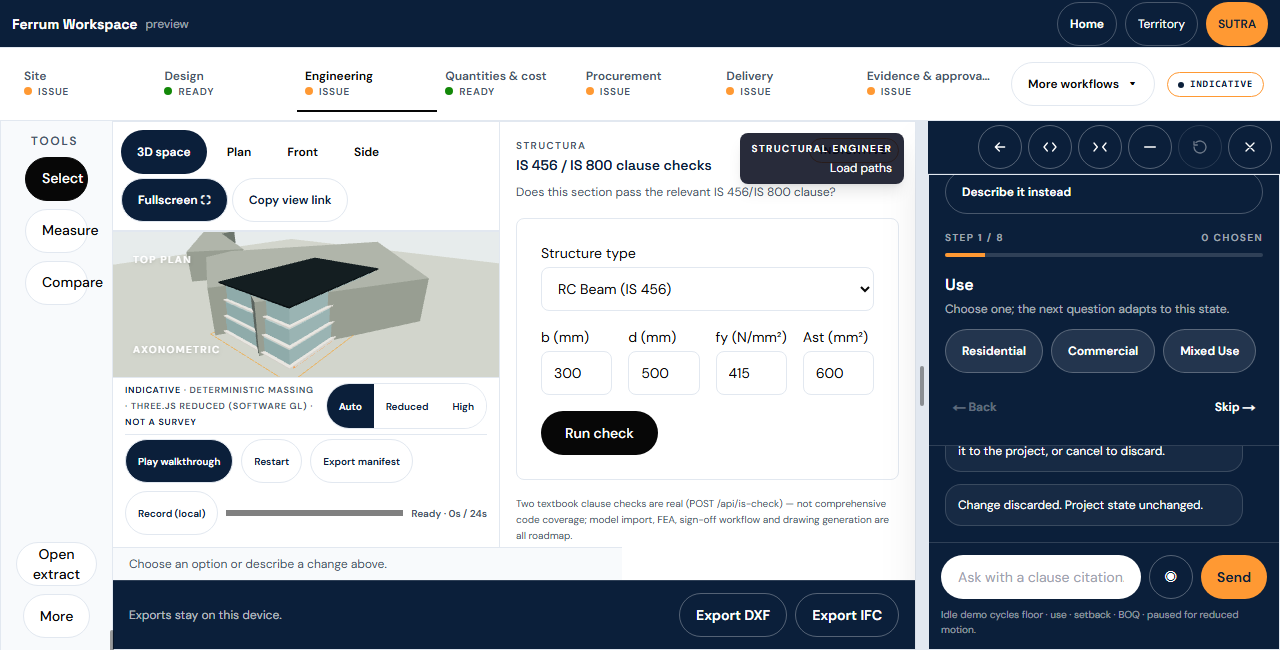
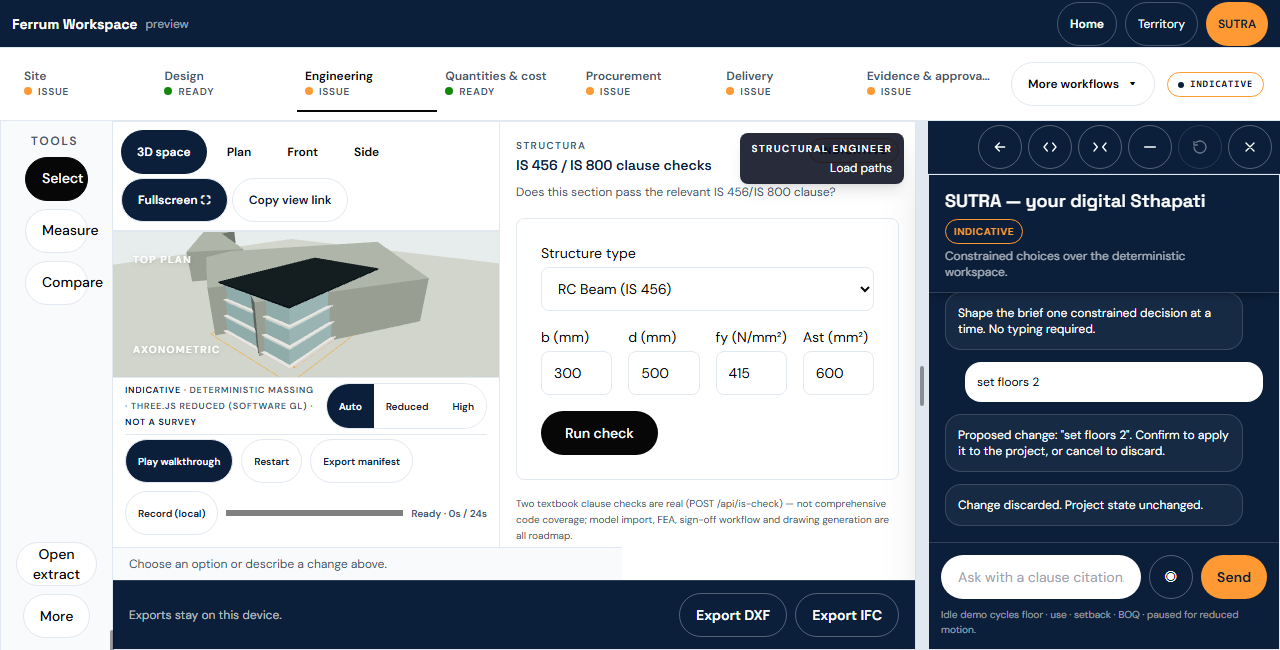
feat: SUTRA composer/header as sticky allotments, zero-scroll acceptance [AI: MASON]
Per conductor + operator standing rule (layout allotment for overlays/tabs
shall never affect existing features): the composer is now a dedicated,
always-visible allotment (position: sticky bottom-0) inside SutraPanel's
own scroll container, not a control a user must discover by scrolling to
reach. The header is sticky top-0 for the same reason. Everything between
them (guided-chip section, message log, a pending confirmation) scrolls
underneath both bars.

scroll-padding-{top,bottom} on the panel's scroll container, measured live
from each sticky bar via ResizeObserver, keeps scrollIntoView targets (a
new message, the pending-confirm alert) from landing hidden behind either
bar. The message log gets shrink-0 so flexbox cannot shrink it below its
min-h floor and let its own content overflow into the composer visually
(a real bug caught and fixed during this pass, see commit diff + the
'newest message not hidden behind the sticky composer' check below).
Respects prefers-reduced-motion (transition-shadow motion-reduce:none on
both sticky bars' scroll-shadow hairline). Focus order unchanged (DOM
order untouched); input/Send remain >= 44px.

ACCEPTANCE RAISED (RULE 40 facts): scripts/sutra-input-short-viewport-
audit.mjs now requires #sutra-command reachable with ZERO scrolling (was:
reachable via scroll), plus a neighbour-effect check that a scrolled
message never lands behind the sticky composer. Proven against all three
builds:
[…]

Changed region(s): [[0.7188, 0.2769, 1.0, 0.6769]]

diff --git a/apps/web/components/workspace/SutraPanel.tsx b/apps/web/components/workspace/SutraPanel.tsx
@@ -36,10 +36,44 @@ export default function SutraPanel({ onEvent, activeProduct, defaultGuidedOpen =
   const [pending,setPending] = useState<{command:string;source:SutraInputSource}|null>(null)
   const [selectionContext,setSelectionContext] = useState<CockpitSelectionContext|null>(null)
   const nextId = useRef(1)
+  const scrollRef = useRef<HTMLElement | null>(null)
   const messagesRef = useRef<HTMLDivElement>(null)
   const pendingRef = useRef<HTMLDivElement>(null)
-  useEffect(()=>{const region=messagesRef.current;if(region)region.scrollTop=region.scrollHeight},[messages])
-  // On phones the panel scrolls as a whole; bring a new confirmation into view so Confirm/Cancel are never below the fold.
+  const headerRef = useRef<HTMLElement | null>(null)
+  const composerRef = useRef<HTMLFormElement | null>(null)
+  const [headerH,setHeaderH] = useState(0)
+  const [composerH,setComposerH] = useState(0)
+  const [atTop,setAtTop] = useState(true)
+  const [atBottom,setAtBottom] = useState(true)
+  // The header and composer are `sticky` inside this single scrolling
+  // panel (see the <aside> below) -- everything else (guided chips,
+  // message log) scrolls underneath both of them. `scroll-padding-{top,
+  // bottom}` on the scroll container, set to each sticky element's own
+  // measured height, is what keeps `scrollIntoView`/`scrollTop` targets
+  // (the pending-confirm alert, the newest message) from landing
+  // partially hidden behind either sticky bar -- the same "reserve real
+  // space for the fixed element" principle as the operator's standing
+  // overlay-allotment rule, applied inside this one panel.
+  useEffect(()=>{
+    if(typeof ResizeObserver==="undefined")return
+    const header=headerRef.current, composer=composerRef.current
+    const observer=new ResizeObserver(entries=>{for(const entry of entries){const h=Math.ceil(entry.contentRect.height);if(entry.target===header)setHeaderH(h);if(entry.target===composer)setComposerH(h)}})
+    if(header)observer.observe(header)
+    if(composer)observer.observe(composer)
+    return ()=>observer.disconnect()
+  },[])
+  const updateScrollShadows=useCallback(()=>{
+    const el=scrollRef.current
+    if(!el)return
+    setAtTop(el.scrollTop<=2)
+    setAtBottom(el.scrollHeight-el.scrollTop-el.clientHeight<=2)
+  },[])
+  useEffect(()=>{updateScrollShadows()},[updateScrollShadows,messages,pending,guidedOpen])
+  // Bring the newest message (or, once there is one, the pending
+  // confirmation) into view within the panel's own scroll -- never the
+  // page -- honoring `scroll-padding` above so it never lands hidden
+  // behind the sticky composer.
+  useEffect(()=>{if(!pending)messagesRef.current?.lastElementChild?.scrollIntoView?.({block:"nearest"})},[messages,pending])
   useEffect(()=>{if(pending)pendingRef.current?.scrollIntoView?.({block:"nearest"})},[pending])
   const recognition = useRef<Recognition|null>(null)
   const parcel = useParcelContext()
@@ -125,22 +159,33 @@ export default function SutraPanel({ onEvent, activeProduct, defaultGuidedOpen =
   const skip = () => {const index=stages.indexOf(stage);if(index<stages.length-1){setHistory(current=>[...current,stage]);setStage(stages[index+1])}}
   useEffect(()=>{const media=matchMedia("(prefers-reduced-motion: reduce)");let timer:ReturnType<typeof setInterval>|undefined;let index=0;const configure=()=>{if(timer)clearInterval(timer);setDemoPaused(media.matches);if(!media.matches)timer=setInterval(()=>run(demoIntents[index++%demoIntents.length],"text",true),7000)};configure();media.addEventListener?.("change",configure);return()=>{if(timer)clearInterval(timer);media.removeEventListener?.("change",configure);recognition.current?.stop()}},[run])
   const toggleVoice=()=>{if(listening){recognition.current?.stop();setListening(false);return}const scope=window as Window&{SpeechRecognition?:RecognitionConstructor;webkitSpeechRecognition?:RecognitionConstructor};const Constructor=scope.SpeechRecognition??scope.webkitSpeechRecognition;if(!Constructor){setMessages(current=>[...current,{id:nextId.current++,role:"sutra",text:"Voice is unavailable. Chips and text remain active."}]);return}const item=new Constructor();item.continuous=false;item.interimResults=false;item.lang="en-IN";item.onresult=e=>run(e.results[0]?.[0]?.transcript??"","voice");item.onend=()=>setListening(false);item.onerror=()=>setListening(false);recognition.current=item;item.start();setListening(true)}
-  // The aside itself is the scroll container at EVERY width, not just below
-  // `md`. Desktop-docked SUTRA has no `min-h` floor forcing it below its
-  // allocated region height (that only produced overflow at short desktop
-  // viewports, e.g. 1024x700 with the cookie bar showing): header + the
-  // guided section + the min-height message log + the composer add up to
-  // more vertical space than a short viewport's docked region has, and
-  // without `overflow-y-auto` here that excess was silently clipped by the
-  // ancestor `overflow-hidden` on `[data-sutra-region]` -- pushing
-  // `#sutra-command` below the visible, unreachable-by-scroll area instead
-  // of leaving it reachable via a scroll inside the panel.
-  return <aside className="flex h-full min-h-0 flex-col overflow-y-auto overscroll-contain border border-relume-border bg-relume-command text-white max-md:border-0" aria-label="SUTRA design assistant" data-sutra-panel data-guided-stage={stage} data-demo-paused={demoPaused} data-guided-open={guidedOpen}>
-    <header className="shrink-0 border-b border-white/15 px-4 py-3 md:pr-16"><div className="flex flex-wrap items-center gap-x-3 gap-y-1"><h1 className="font-heading text-lg font-semibold text-white">SUTRA — your digital Sthapati</h1><span className="rounded-full border border-relume-accent px-2 py-1 text-[10px] font-bold tracking-wider text-relume-accent">INDICATIVE</span></div><p className="mt-1 text-xs text-white/65">Constrained choices over the deterministic workspace.</p></header>
+  // ALLOTMENT (operator standing rule, 2026-09-19): the composer is a
+  // dedicated, always-visible allotment at the bottom of this panel, not a
+  // floating overlay a user must discover by scrolling -- `sticky bottom-0`
+  // inside the panel's own scroll container, with the header pinned the
+  // same way at `sticky top-0`. Everything between them (the guided-chip
+  // section, the message log, a pending confirmation) scrolls underneath
+  // both bars. `scroll-padding-{top,bottom}` below, set from each sticky
+  // bar's own measured height, is the allotment math that keeps a
+  // scrolled-to message from landing partially hidden behind either bar --
+  // the panel reserves real space for both fixed bars instead of letting
+  // them cover content. This replaces the whole-panel-scrolls-as-one-blob
+  // shape from the short-viewport reachability fix below: `#sutra-command`
+  // is now reachable with ZERO scrolling at every viewport this row's
+  // acceptance covers, because it never leaves its pinned allotment.
+  return <aside ref={scrollRef} onScroll={updateScrollShadows} className="flex h-full min-h-0 flex-col overflow-y-auto overscroll-contain border border-relume-border bg-relume-command text-white max-md:border-0" style={{scrollPaddingTop:headerH,scrollPaddingBottom:composerH}} aria-label="SUTRA design assistant" data-sutra-panel data-guided-stage={stage} data-demo-paused={demoPaused} data-guided-open={guidedOpen}>
+    <header ref={headerRef} className={`sticky top-0 z-20 shrink-0 border-b border-white/15 bg-relume-command px-4 py-3 transition-shadow motion-reduce:transition-none md:pr-16 ${atTop?"":"shadow-[0_6px_10px_-6px_rgba(0,0,0,0.45)]"}`} data-sutra-header data-sutra-scroll-shadow={atTop?undefined:"true"}><div className="flex flex-wrap items-center gap-x-3 gap-y-1"><h1 className="font-heading text-lg font-semibold text-white">SUTRA — your digital Sthapati</h1><span className="rounded-full border border-relume-accent px-2 py-1 text-[10px] font-bold tracking-wider text-relume-accent">INDICATIVE</span></div><p className="mt-1 text-xs text-white/65">Constrained choices over the deterministic workspace.</p></header>
     <button type="button" aria-expanded={guidedOpen} aria-controls="sutra-guided" onClick={()=>setGuidedOpen(value=>!value)} className="mx-4 mt-3 min-h-11 shrink-0 rounded-full border border-white/25 px-4 text-left text-xs font-semibold focus-visible:outline focus-visible:outline-2 focus-visible:outline-relume-accent">{guidedOpen?"Describe it instead":"Can't describe it? Choose instead"}</button>
     <section id="sutra-guided" className="shrink-0 border-b border-white/15 p-4" aria-labelledby="sutra-question"><div className="flex justify-between text-[10px] font-semibold uppercase tracking-[.14em] text-white/60"><span>Step {stages.indexOf(stage)+1} / {stages.length}</span><span>{Object.keys(selected).length} chosen</span></div><div className="mt-2 h-1 overflow-hidden rounded-full bg-white/15"><div className="h-full bg-relume-accent transition-[width] motion-reduce:transition-none" style={{width:`${((stages.indexOf(stage)+1)/stages.length)*100}%`}} /></div><h2 id="sutra-question" className="mt-4 font-heading text-base font-semibold text-white">{labels[stage]}</h2><p className="mt-1 text-xs text-white/65">{stage==="use"&&parcel?(parcelUse?`Recorded use: ${parcelUse}. Competent-authority zoning verification remains required.`:"Use UNKNOWN. Competent-authority zoning verification is required before design choices."):stage==="floors"?`For ${use}, the sample envelope permits up to ${maxFloors}.`:`Choose one; the next question adapts to this state.`}</p><div className="mt-3 flex flex-wrap gap-2" data-sutra-chip-tree>{options[stage].map(option=><button key={option.label} type="button" title={option.citation} onClick={()=>choose(option.label,option.command)} className="min-h-11 rounded-full border border-white/25 bg-white/10 px-4 text-xs font-semibold hover:border-relume-accent focus-visible:outline focus-visible:outline-2 focus-visible:outline-relume-accent">{option.label}</button>)}</div><div className="mt-3 flex justify-between"><button type="button" onClick={back} disabled={!history.length} className="min-h-11 px-2 text-xs font-semibold disabled:opacity-35">← Back</button><button type="button" onClick={skip} disabled={stage==="output"} className="min-h-11 px-2 text-xs font-semibold disabled:opacity-35">Skip →</button></div></section>
-    <div ref={messagesRef} className="min-h-24 flex-1 space-y-3 overflow-y-auto overscroll-contain p-4 max-md:min-h-[8rem]" role="log" aria-live="polite" aria-label="Conversation" tabIndex={0} data-sutra-messages data-sutra-selection-context={selectionContext?.targetId}>{messages.map(message=><article key={message.id} className={`rounded-2xl p-3 text-xs ${message.role==="operator"?"ml-5 bg-white text-relume-ink":"mr-5 border border-white/15 bg-white/5"}`}><p>{message.text}</p>{message.citations&&<ol aria-label="Citations" className="mt-2 border-t border-current/15 pt-2 text-[10px] opacity-75">{message.citations.map(citation=><li key={citation}><cite className="not-italic">[{citation}]</cite></li>)}</ol>}</article>)}</div>
+    {/* `shrink-0`: this <aside> is a flex column, so without it flexbox
+        would shrink the message log down to its `min-h-24` floor whenever
+        content (header+guided+composer, both now `shrink-0` too) doesn't
+        fit -- the messages themselves would then overflow OUT of this
+        now-too-small box and visually collide with the sticky composer
+        below, instead of the panel's own `overflow-y-auto` picking up the
+        extra height the way it's meant to. */}
+    <div ref={messagesRef} className="min-h-24 shrink-0 space-y-3 p-4" role="log" aria-live="polite" aria-label="Conversation" tabIndex={0} data-sutra-messages data-sutra-selection-context={selectionContext?.targetId}>{messages.map(message=><article key={message.id} className={`rounded-2xl p-3 text-xs ${message.role==="operator"?"ml-5 bg-white text-relume-ink":"mr-5 border border-white/15 bg-white/5"}`}><p>{message.text}</p>{message.citations&&<ol aria-label="Citations" className="mt-2 border-t border-current/15 pt-2 text-[10px] opacity-75">{message.citations.map(citation=><li key={citation}><cite className="not-italic">[{citation}]</cite></li>)}</ol>}</article>)}</div>
     {pending && <div ref={pendingRef} className="shrink-0 border-t border-relume-accent bg-white/10 p-3" data-sutra-pending-confirm role="alert"><p className="text-xs font-semibold">Confirm project-state change?</p><p className="mt-1 text-xs text-white/75">&ldquo;{pending.command}&rdquo; will change the model until confirmed.</p><div className="mt-2 flex gap-2"><button type="button" onClick={confirmPending} className="min-h-11 rounded-full bg-relume-accent px-4 text-xs font-semibold text-relume-command">Confirm</button><button type="button" onClick={cancelPending} className="min-h-11 rounded-full border border-white/30 px-4 text-xs font-semibold">Cancel</button></div></div>}
-    <form onSubmit={event=>{event.preventDefault();run(value,"text")}} className="shrink-0 border-t border-white/15 p-3"><label htmlFor="sutra-command" className="sr-only">Ask SUTRA</label><div className="flex gap-2"><input id="sutra-command" value={value} onChange={event=>setValue(event.target.value)} placeholder="Ask with a clause citation…" enterKeyHint="send" autoComplete="off" className="min-h-11 min-w-0 flex-1 rounded-full border border-white/25 bg-white px-4 text-base text-relume-ink md:text-sm"/><button type="button" onClick={toggleVoice} aria-pressed={listening} aria-label={listening?"Stop voice input":"Start voice input"} className="min-h-11 min-w-11 rounded-full border border-white/30">◉</button><button type="submit" className="min-h-11 rounded-full bg-relume-accent px-4 text-sm font-semibold text-relume-command">Send</button></div><p className="mt-2 text-[10px] text-white/55">Idle demo cycles floor · use · setback · BOQ{demoPaused?" · paused for reduced motion":""}.</p></form>
+    <form ref={composerRef} onSubmit={event=>{event.preventDefault();run(value,"text")}} className={`sticky bottom-0 z-20 shrink-0 border-t border-white/15 bg-relume-command p-3 transition-shadow motion-reduce:transition-none ${atBottom?"":"shadow-[0_-6px_10px_-6px_rgba(0,0,0,0.45)]"}`} data-sutra-composer data-sutra-scroll-shadow={atBottom?undefined:"true"}><label htmlFor="sutra-command" className="sr-only">Ask SUTRA</label><div className="flex gap-2"><input id="sutra-command" value={value} onChange={event=>setValue(event.target.value)} placeholder="Ask with a clause citation…" enterKeyHint="send" autoComplete="off" className="min-h-11 min-w-0 flex-1 rounded-full border border-white/25 bg-white px-4 text-base text-relume-ink md:text-sm"/><button type="button" onClick={toggleVoice} aria-pressed={listening} aria-label={listening?"Stop voice input":"Start voice input"} className="min-h-11 min-w-11 rounded-full border border-white/30">◉</button><button type="submit" className="min-h-11 rounded-full bg-relume-accent px-4 text-sm font-semibold text-relume-command">Send</button></div><p className="mt-2 text-[10px] text-white/55">Idle demo cycles floor · use · setback · BOQ{demoPaused?" · paused for reduced motion":""}.</p></form>
   </aside>
 }

diff --git a/apps/web/components/workspace/SutraPanel.test.tsx b/apps/web/components/workspace/SutraPanel.test.tsx
@@ -90,7 +90,7 @@ describe('SutraPanel idle demo', () => {
     vi.unstubAllGlobals()
   })
 
-  it('phone layout: the whole panel scrolls and stacked sections never shrink, so Confirm/Cancel and the composer stay reachable', () => {
+  it('the whole panel scrolls, the composer/header are sticky allotments (not overlays), and Confirm/Cancel stay reachable', () => {
     vi.stubGlobal('matchMedia', () => ({ matches: true, addEventListener: vi.fn(), removeEventListener: vi.fn() }))
     const scrollIntoView = vi.fn()
     Element.prototype.scrollIntoView = scrollIntoView
@@ -104,9 +104,34 @@ describe('SutraPanel idle demo', () => {
     const pending = container.querySelector('[data-sutra-pending-confirm]') as HTMLElement
     expect(scrollIntoView).toHaveBeenCalled()
     const form = screen.getByLabelText('Ask SUTRA').closest('form') as HTMLElement
-    for (const block of [panel.querySelector('header'), panel.querySelector('#sutra-guided'), pending, form]) expect((block as HTMLElement).className).toContain('shrink-0')
-    expect(container.querySelector('[data-sutra-messages]')?.className).toContain('max-md:min-h-[8rem]')
+    // ALLOTMENT, not overlay: header + composer are `sticky` (a dedicated,
+    // always-visible allotment inside the panel's own scroll, per the
+    // operator's standing overlay rule) rather than plain in-flow blocks a
+    // user could scroll past and lose. `pending` (the confirm alert) stays
+    // ordinary shrink-0 flow -- it isn't meant to be permanently pinned.
+    expect((panel.querySelector('header') as HTMLElement).className).toContain('sticky')
+    expect((panel.querySelector('header') as HTMLElement).className).toContain('top-0')
+    expect(form.className).toContain('sticky')
+    expect(form.className).toContain('bottom-0')
+    expect(pending.className).toContain('shrink-0')
+    // scroll-padding on the panel's own scroll container reserves real
+    // space for both sticky bars so a scrolled-to message/confirm never
+    // lands hidden behind either one.
+    expect(panel.style.scrollPaddingTop).not.toBe('')
+    expect(panel.style.scrollPaddingBottom).not.toBe('')
     delete (Element.prototype as { scrollIntoView?: unknown }).scrollIntoView
+    vi.unstubAllGlobals()
+  })
+
+  it('the composer and Send stay >= 44px tall and #sutra-command keeps its focus/tab order as the last interactive control', () => {
+    vi.stubGlobal('matchMedia', () => ({ matches: true, addEventListener: vi.fn(), removeEventListener: vi.fn() }))
+    render(<SutraPanel onEvent={vi.fn()} />)
+    const input = screen.getByLabelText('Ask SUTRA') as HTMLInputElement
+    const send = screen.getByRole('button', { name: 'Send' }) as HTMLButtonElement
+    expect(input.className).toContain('min-h-11')
+    expect(send.className).toContain('min-h-11')
+    input.focus()
+    expect(document.activeElement).toBe(input)
     vi.unstubAllGlobals()
   })
 })
